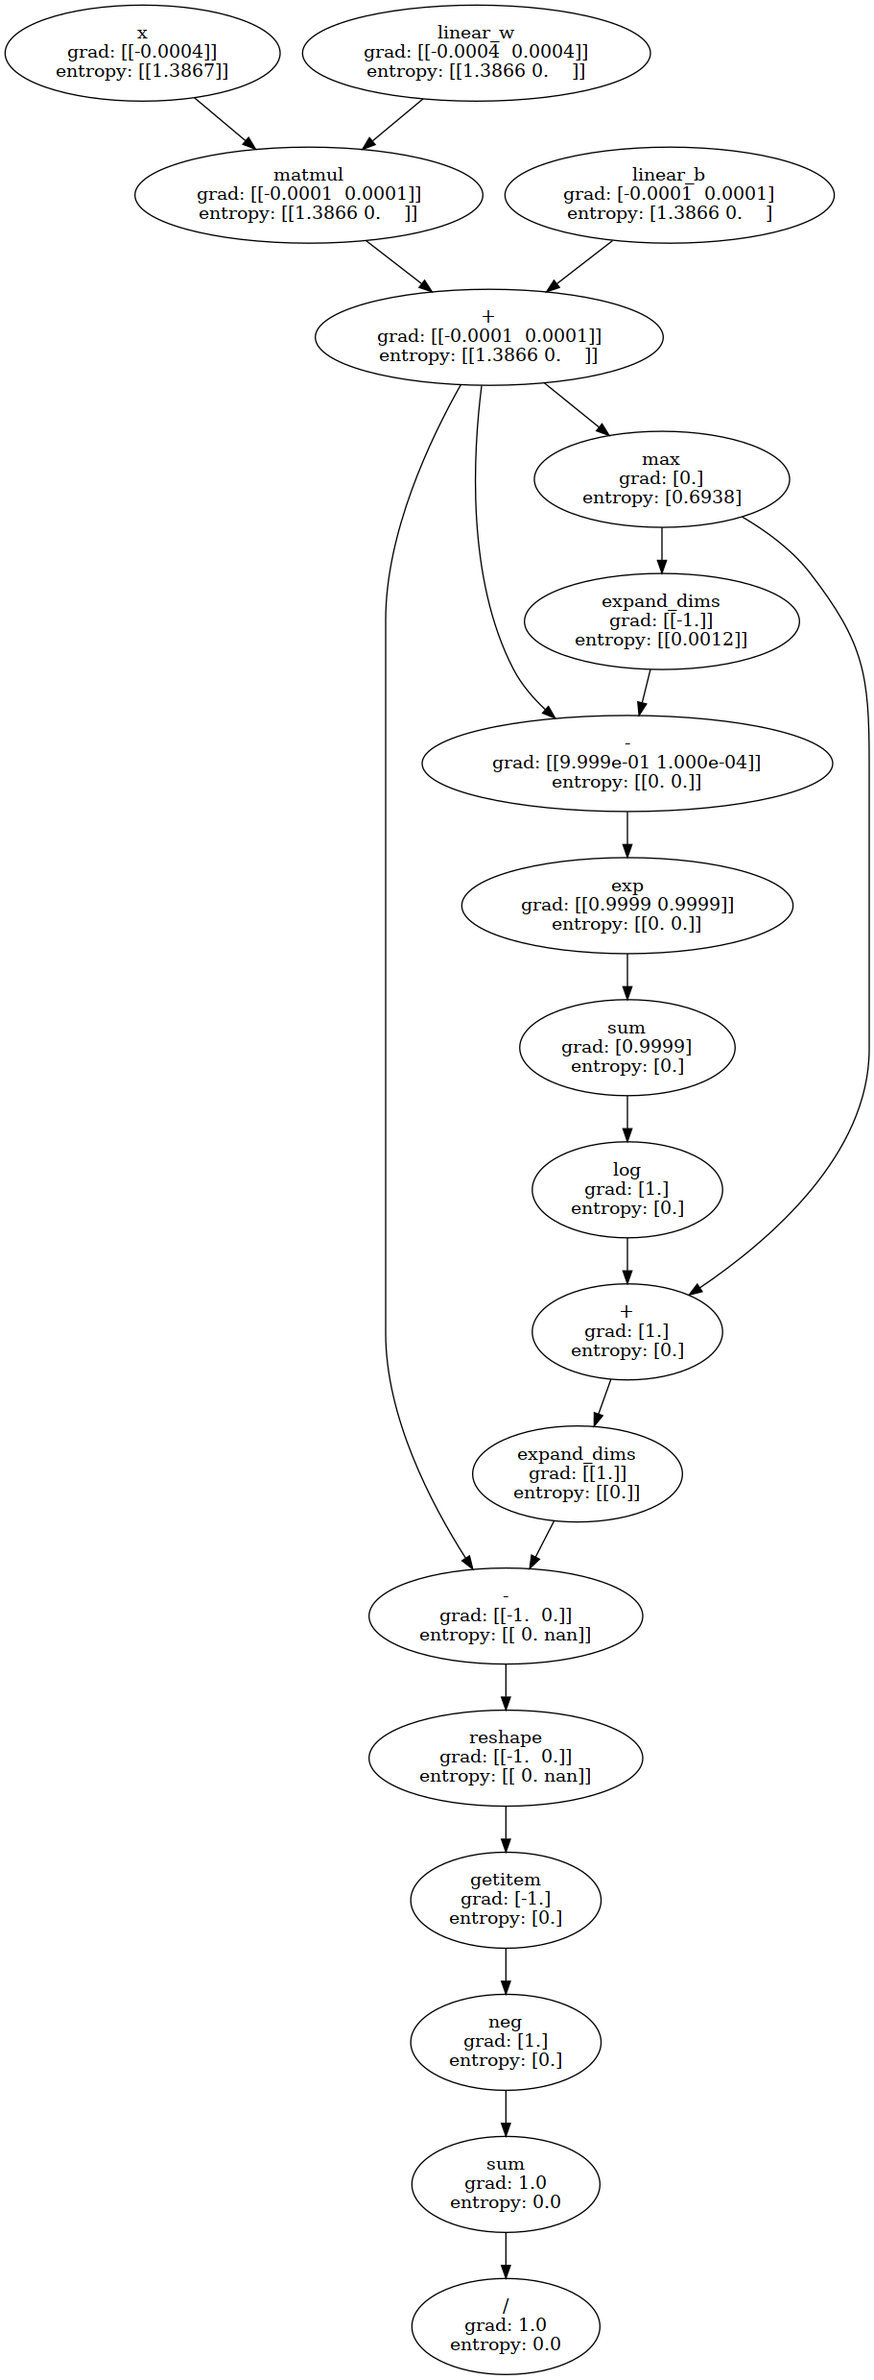
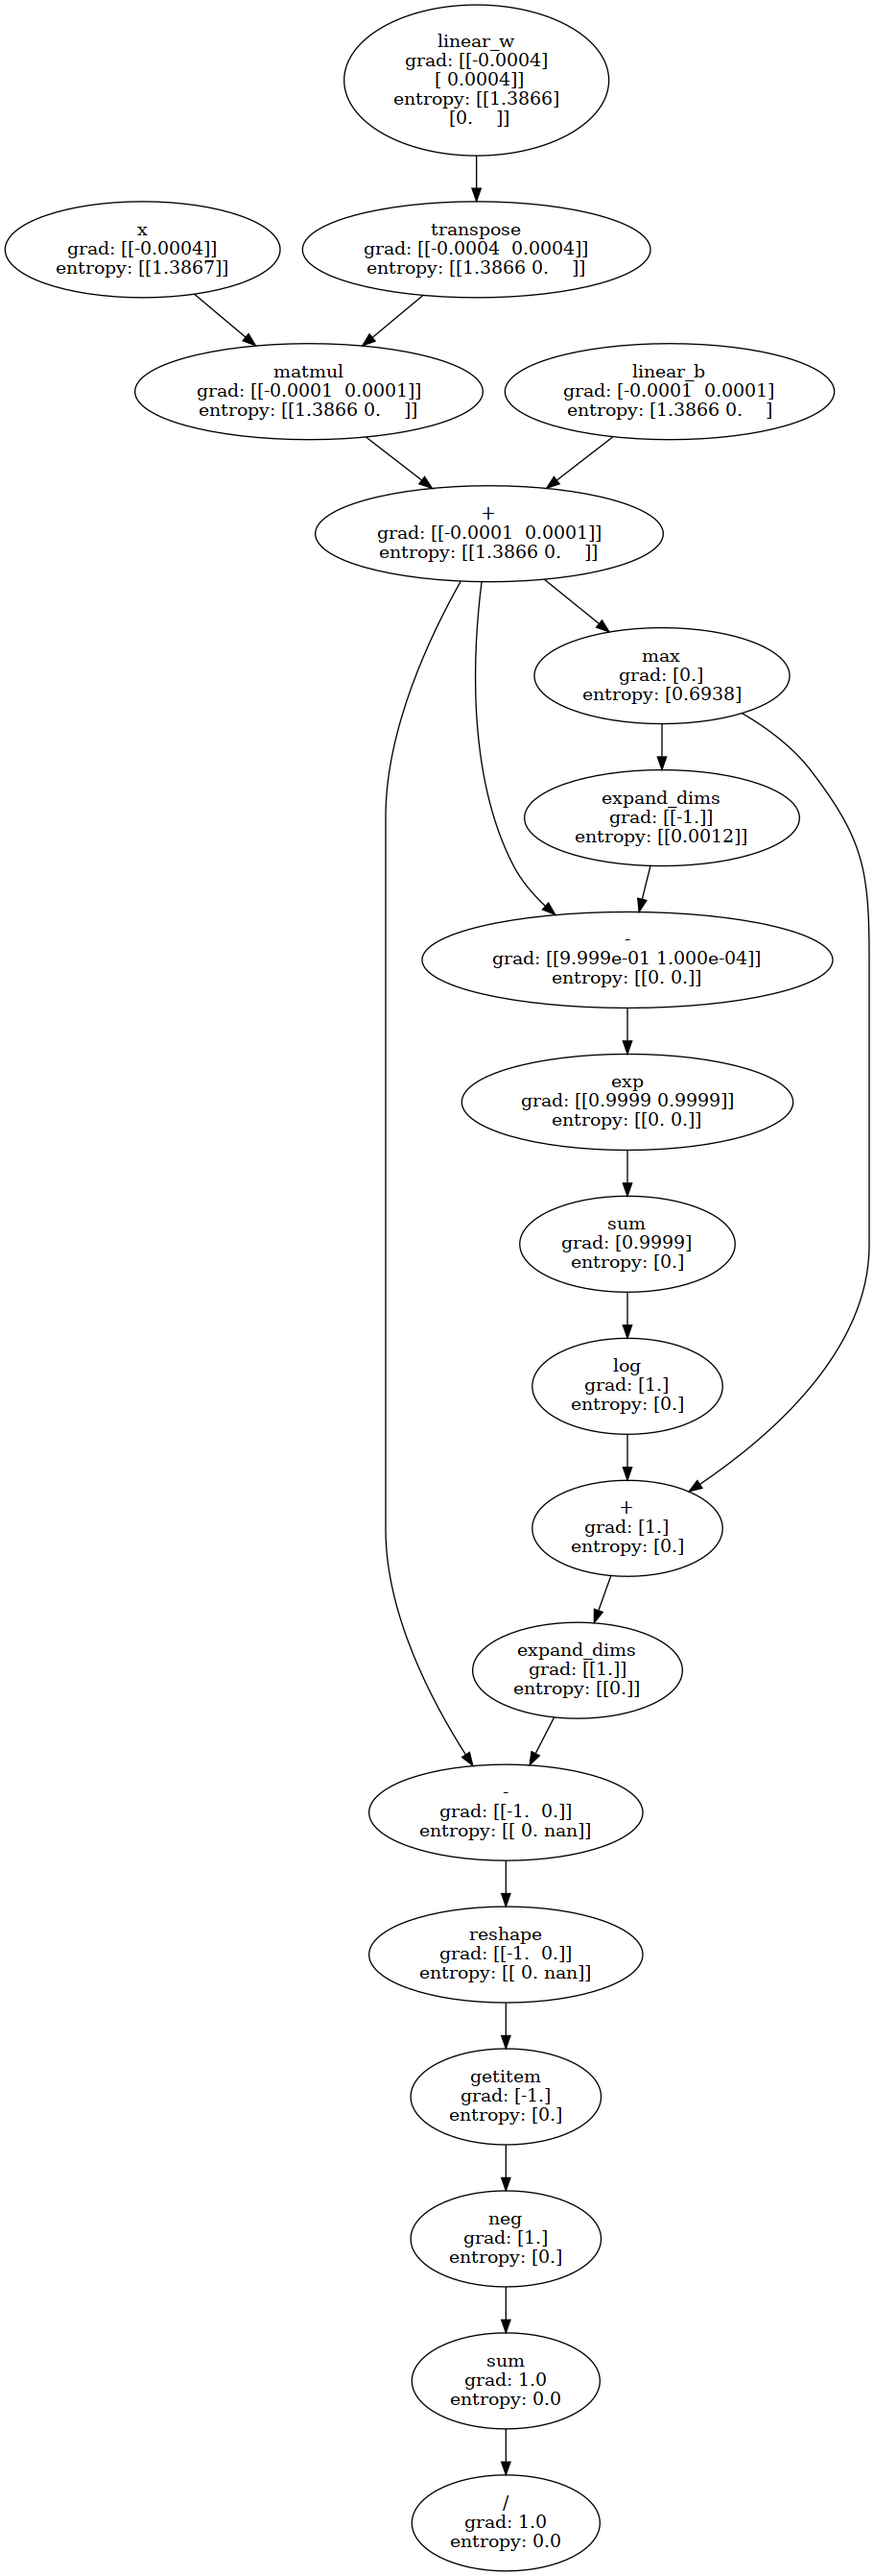
Change BF linear so that its weight has shape (out_dims, in_dims) to match pytorch, fix tests to same point as before (4 failures, 14 errors)

diff --git a/brunoflow/test/ad.py b/brunoflow/test/ad.py
@@ -266,7 +266,7 @@ class AutodiffMaxGradTestCase(ut.TestCase):
         y_bf = bf.Parameter(jnp.array([0]), name="y")
 
         linear_bf = bf.net.Linear(1, 2)
-        linear_bf.set_weights(jnp.array([[4.0, 1.0]]))
+        linear_bf.set_weights(jnp.array([[4.0, 1.0]]).T)
         linear_bf.set_bias(jnp.array([0.0, 0.0]))
 
         output = linear_bf(x_bf)
@@ -289,9 +289,9 @@ class AutodiffMaxGradTestCase(ut.TestCase):
         print("x max neg grad:", x_bf.max_neg_grad_of_output_wrt_node)
         print("x grad:", x_bf.grad)
 
-        print("w max grad:", linear_bf.W.max_grad_of_output_wrt_node)
-        print("w max neg grad:", linear_bf.W.max_neg_grad_of_output_wrt_node)
-        print("w grad:", linear_bf.W.grad)
+        print("w max grad:", linear_bf.weight.max_grad_of_output_wrt_node)
+        print("w max neg grad:", linear_bf.weight.max_neg_grad_of_output_wrt_node)
+        print("w grad:", linear_bf.weight.grad)
 
 
 class AutodiffEntropyTestCase(ut.TestCase):
@@ -464,7 +464,7 @@ class AutodiffEntropyTestCase(ut.TestCase):
         x_bf = bf.Parameter(jnp.array([[3.0]]), name="x")
 
         linear_bf = bf.net.Linear(1, 2)
-        linear_bf.set_weights(jnp.array([[2.0, 1.0]]))
+        linear_bf.set_weights(jnp.array([[2.0, 1.0]]).T)
         linear_bf.set_bias(jnp.array([0.0, 0.0]))
 
         output = linear_bf(x_bf)
@@ -477,7 +477,7 @@ class AutodiffEntropyTestCase(ut.TestCase):
         x_bf = bf.Parameter(jnp.array([[3.0]]), name="x")
 
         linear_bf = bf.net.Linear(1, 2)
-        linear_bf.set_weights(jnp.array([[-2.0, 1.0]]))
+        linear_bf.set_weights(jnp.array([[-2.0, 1.0]]).T)
         linear_bf.set_bias(jnp.array([0.0, 0.0]))
 
         output = linear_bf(x_bf)
@@ -490,7 +490,7 @@ class AutodiffEntropyTestCase(ut.TestCase):
         x_bf = bf.Parameter(jnp.array([[3.0]]), name="x")
 
         linear_bf = bf.net.Linear(1, 2)
-        linear_bf.set_weights(jnp.array([[-2.0, 1.0]]))
+        linear_bf.set_weights(jnp.array([[-2.0, 1.0]]).T)
         linear_bf.set_bias(jnp.array([4.0, 5.0]))
 
         output = linear_bf(x_bf)
@@ -550,7 +550,7 @@ class RegularizationTestCase(ut.TestCase):
     ########################
     def test_l1_regularization(self):
         linear_bf = bf.net.Linear(1, 2)
-        linear_bf.set_weights(jnp.array([[4.0, 1.0]]))
+        linear_bf.set_weights(jnp.array([[4.0, 1.0]]).T)
         linear_bf.set_bias(jnp.array([2.0, 0.0]))
 
         regularized = regularize(linear_bf, l1_weight=1, l2_weight=0)
@@ -558,12 +558,12 @@ class RegularizationTestCase(ut.TestCase):
         assert regularized.val == 7.0
         regularized.backprop(verbose=True)
 
-        self.assertTrue(jnp.allclose(linear_bf.W.grad, jnp.array([[1.0, 1.0]])))
-        self.assertTrue(jnp.allclose(linear_bf.b.grad, jnp.array([[1.0, 1.0]])))
+        self.assertTrue(jnp.allclose(linear_bf.weight.grad, jnp.array([[1.0, 1.0]])).T)
+        self.assertTrue(jnp.allclose(linear_bf.bias.grad, jnp.array([[1.0, 1.0]])))
 
     def test_l2_regularization(self):
         linear_bf = bf.net.Linear(1, 2)
-        linear_bf.set_weights(jnp.array([[4.0, 1.0]]))
+        linear_bf.set_weights(jnp.array([[4.0, 1.0]]).T)
         linear_bf.set_bias(jnp.array([2.0, 0.0]))
 
         regularized = regularize(linear_bf, l1_weight=0, l2_weight=1)
@@ -571,12 +571,12 @@ class RegularizationTestCase(ut.TestCase):
         assert regularized.val == 21.0
         regularized.backprop(verbose=True, values_to_compute=["grad", "abs_val_grad", "entropy"])
 
-        self.assertTrue(jnp.allclose(linear_bf.W.grad, jnp.array([[8.0, 2.0]])))
-        self.assertTrue(jnp.allclose(linear_bf.b.grad, jnp.array([[4.0, 0.0]])))
+        self.assertTrue(jnp.allclose(linear_bf.weight.grad, jnp.array([[8.0, 2.0]]).T))
+        self.assertTrue(jnp.allclose(linear_bf.bias.grad, jnp.array([[4.0, 0.0]])))
 
     def test_l2_half_weighted_regularization(self):
         linear_bf = bf.net.Linear(1, 2)
-        linear_bf.set_weights(jnp.array([[4.0, 1.0]]))
+        linear_bf.set_weights(jnp.array([[4.0, 1.0]]).T)
         linear_bf.set_bias(jnp.array([2.0, 0.0]))
 
         regularized = regularize(linear_bf, l1_weight=0, l2_weight=0.5)
@@ -584,8 +584,8 @@ class RegularizationTestCase(ut.TestCase):
         assert regularized.val == 10.5
         regularized.backprop(verbose=True)
 
-        self.assertTrue(jnp.allclose(linear_bf.W.grad, jnp.array([[4.0, 1.0]])))
-        self.assertTrue(jnp.allclose(linear_bf.b.grad, jnp.array([[2.0, 0.0]])))
+        self.assertTrue(jnp.allclose(linear_bf.weight.grad, jnp.array([[4.0, 1.0]]).T))
+        self.assertTrue(jnp.allclose(linear_bf.bias.grad, jnp.array([[2.0, 0.0]])))
 
 
 class VisualizeTestCase(ut.TestCase):
@@ -600,7 +600,7 @@ class VisualizeTestCase(ut.TestCase):
         x_bf = bf.Parameter(jnp.array([[3.0]]), name="x")
 
         linear_bf = bf.net.Linear(1, 2)
-        linear_bf.set_weights(jnp.array([[-2.0, 1.0]]))
+        linear_bf.set_weights(jnp.array([[-2.0, 1.0]]).T)
         linear_bf.set_bias(jnp.array([0.0, 0.0]))
 
         output = linear_bf(x_bf)
@@ -611,7 +611,7 @@ class VisualizeTestCase(ut.TestCase):
         y_bf = bf.Parameter(jnp.array([0]), name="y")
 
         linear_bf = bf.net.Linear(1, 2)
-        linear_bf.set_weights(jnp.array([[4.0, 1.0]]))
+        linear_bf.set_weights(jnp.array([[4.0, 1.0]]).T)
         linear_bf.set_bias(jnp.array([0.0, 0.0]))
 
         output = linear_bf(x_bf)

diff --git a/brunoflow/opt/optimizer.py b/brunoflow/opt/optimizer.py
@@ -3,6 +3,7 @@ This module implements common optimization methods
 """
 
 from jax import numpy as jnp
+import types
 
 
 class Optimizer:
@@ -15,6 +16,8 @@ class Optimizer:
     """
 
     def __init__(self, params_to_optimize, step_size=0.001):
+        if isinstance(params_to_optimize, types.GeneratorType):
+            params_to_optimize = [p for p in params_to_optimize]
         self.params = params_to_optimize
         self.step_size = step_size
 
@@ -40,8 +43,10 @@ class Optimizer:
 class SGD(Optimizer):
     def __init__(self, params_to_optimize, step_size=0.001, momemtum=0.0):
         super(SGD, self).__init__(params_to_optimize, step_size=step_size)
+        del params_to_optimize  # Safety deleting because you should only use self.params from here on out.
+
         self.mu = momemtum
-        self.v = [jnp.zeros_like(p.val, dtype=float) for p in params_to_optimize]
+        self.v = [jnp.zeros_like(p.val, dtype=float) for p in self.params]
 
     def step(self):
         for i, p in enumerate(self.params):
@@ -55,8 +60,10 @@ class SGD(Optimizer):
 class AdaGrad(Optimizer):
     def __init__(self, params_to_optimize, step_size=0.001, eps=1e-8):
         super(AdaGrad, self).__init__(params_to_optimize, step_size)
+        del params_to_optimize  # Safety deleting because you should only use self.params from here on out.
+
         self.eps = eps
-        self.g2 = [jnp.zeros_like(p.val, dtype=float) for p in params_to_optimize]
+        self.g2 = [jnp.zeros_like(p.val, dtype=float) for p in self.params]
 
     def step(self):
         for i, p in enumerate(self.params):
@@ -70,9 +77,11 @@ class AdaGrad(Optimizer):
 class RMSProp(Optimizer):
     def __init__(self, params_to_optimize, step_size=0.001, decay_rate=0.9, eps=1e-8):
         super(RMSProp, self).__init__(params_to_optimize, step_size)
+        del params_to_optimize  # Safety deleting because you should only use self.params from here on out.
+
         self.decay_rate = decay_rate
         self.eps = eps
-        self.g2 = [jnp.zeros_like(p.val, dtype=float) for p in params_to_optimize]
+        self.g2 = [jnp.zeros_like(p.val, dtype=float) for p in self.params]
 
     def step(self):
         for i, p in enumerate(self.params):
@@ -86,11 +95,13 @@ class RMSProp(Optimizer):
 class Adam(Optimizer):
     def __init__(self, params_to_optimize, step_size=0.001, beta1=0.9, beta2=0.99, eps=1e-8):
         super(Adam, self).__init__(params_to_optimize, step_size)
+        del params_to_optimize  # Safety deleting because you should only use self.params from here on out.
+
         self.eps = eps
         self.beta1 = beta1
         self.beta2 = beta2
-        self.m = [jnp.zeros_like(p.val, dtype=float) for p in params_to_optimize]
-        self.v = [jnp.zeros_like(p.val, dtype=float) for p in params_to_optimize]
+        self.m = [jnp.zeros_like(p.val, dtype=float) for p in self.params]
+        self.v = [jnp.zeros_like(p.val, dtype=float) for p in self.params]
 
     def step(self):
         for i, p in enumerate(self.params):

diff --git a/brunoflow/net/linear.py b/brunoflow/net/linear.py
@@ -2,7 +2,7 @@ import math
 from jax import numpy as jnp
 from jax import random
 from .network import Network, Parameter
-from ..func import matmul
+from ..func import matmul, matrix_transpose
 
 
 def xavier2(m, n):
@@ -26,23 +26,23 @@ class Linear(Network):
 
         m = input_size
         n = output_size
-        self.b = Parameter(random.normal(key=random_key, shape=(n,)) * xavier1(n), name=f"{name}_b")
-        self.W = Parameter(random.normal(key=subkey2, shape=(m, n)) * xavier2(m, n), name=f"{name}_w")
+        self.bias = Parameter(random.normal(key=random_key, shape=(n,)) * xavier1(n), name=f"{name}_b")
+        self.weight = Parameter(random.normal(key=subkey2, shape=(n, m)) * xavier2(n, m), name=f"{name}_w")
 
     def forward(self, x):
-        return matmul(x, self.W) + self.b
+        return matmul(x, matrix_transpose(self.weight)) + self.bias
 
     def set_weights(self, W: jnp.ndarray):
-        assert W.shape == self.W.val.shape
-        self.W.val = W
+        assert W.shape == self.weight.val.shape
+        self.weight.val = W
 
     def set_bias(self, b: jnp.ndarray):
-        assert b.shape == self.b.val.shape
-        self.b.val = b
+        assert b.shape == self.bias.val.shape
+        self.bias.val = b
 
 
 class LinearInitToOne(Linear):
     def __init__(self, input_size, output_size):
         super(LinearInitToOne, self).__init__(input_size, output_size)
-        self.W = Parameter(jnp.ones(shape=(input_size, output_size)))
-        self.b = Parameter(jnp.ones(shape=(output_size,)))
+        self.weight = Parameter(jnp.ones(shape=(input_size, output_size)))
+        self.bias = Parameter(jnp.ones(shape=(output_size,)))

diff --git a/brunoflow/test/network.py b/brunoflow/test/network.py
@@ -27,7 +27,7 @@ class NetworkTestCase(ut.TestCase):
         linear = bf.net.Linear(in_dim, out_dim)
 
         # Training loop
-        optimizer = bf.opt.SGD(linear.parameters, step_size=0.1)
+        optimizer = bf.opt.SGD(linear.parameters(), step_size=0.1)
         iters = 1000
         for i in range(iters):
             loss = bf.opt.mse_loss(linear(x), y)
@@ -35,5 +35,5 @@ class NetworkTestCase(ut.TestCase):
             loss.backprop()
             optimizer.step()
 
-        self.check(linear.W.val, m)
-        self.check(linear.b.val, b)
+        self.check(linear.weight.val, m.T)
+        self.check(linear.bias.val, b)

diff --git a/brunoflow/opt/loss.py b/brunoflow/opt/loss.py
@@ -227,13 +227,13 @@ def regularize(model, l1_weight=0, l2_weight=1):
     l2_penalty = 0
 
     if l1_weight != 0:
-        for p in model.parameters:
+        for p in model.parameters():
             l1_penalty += reduce_sum(abs(p))
         l1_penalty.set_name("L1_penalty")
         regularization_term += l1_penalty * l1_weight
 
     if l2_weight != 0:
-        for p in model.parameters:
+        for p in model.parameters():
             l2_penalty += reduce_sum(p**2)
         l2_penalty.set_name("L2_penalty")
         regularization_term += l2_penalty * l2_weight
